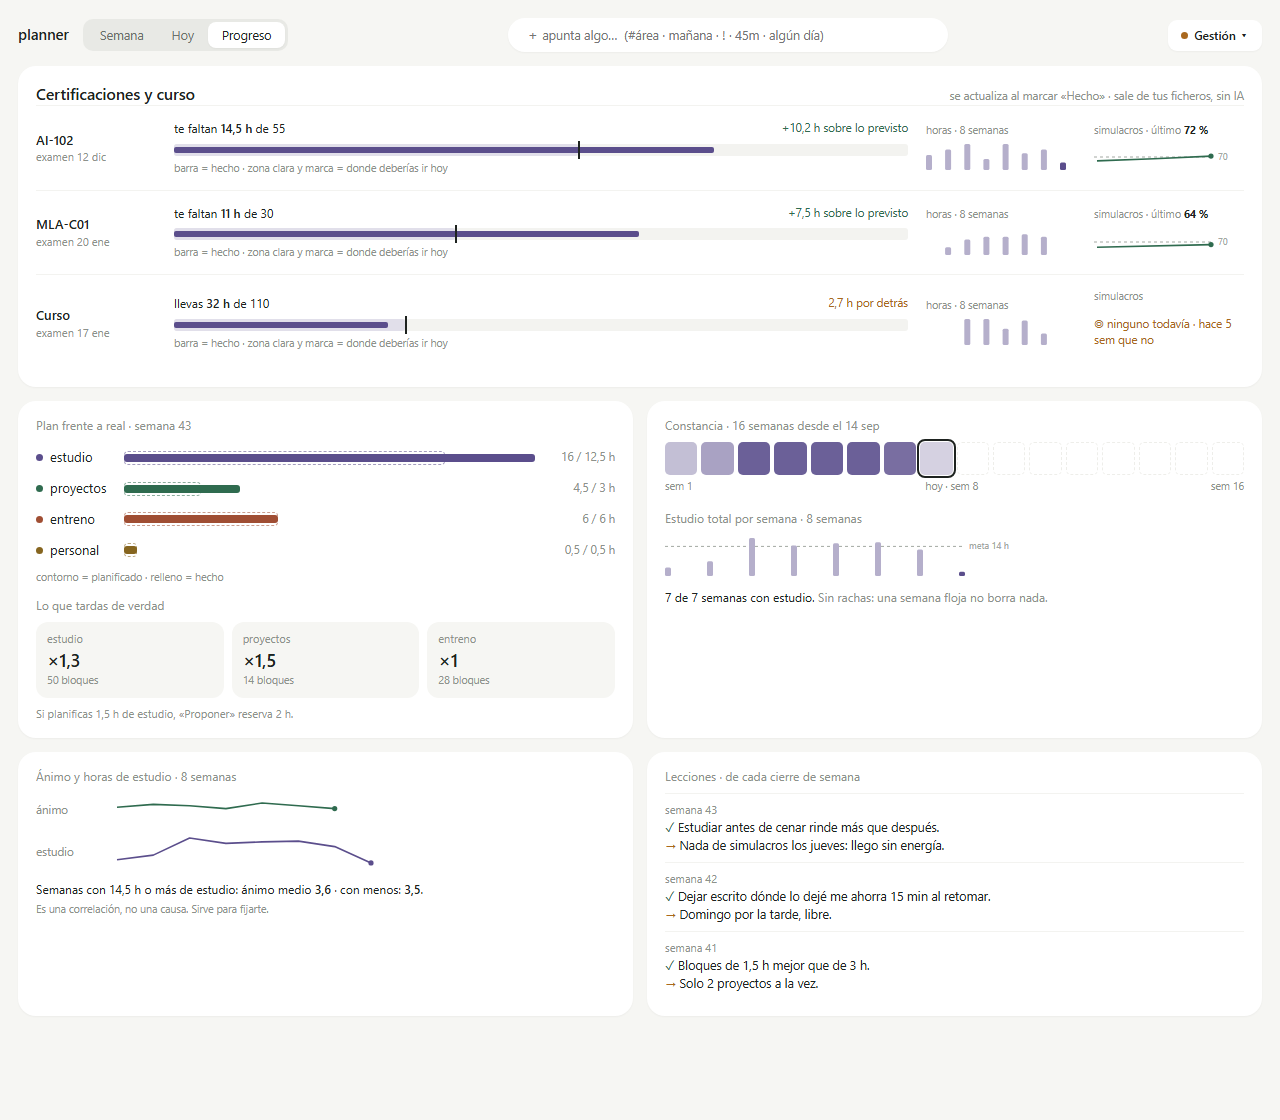
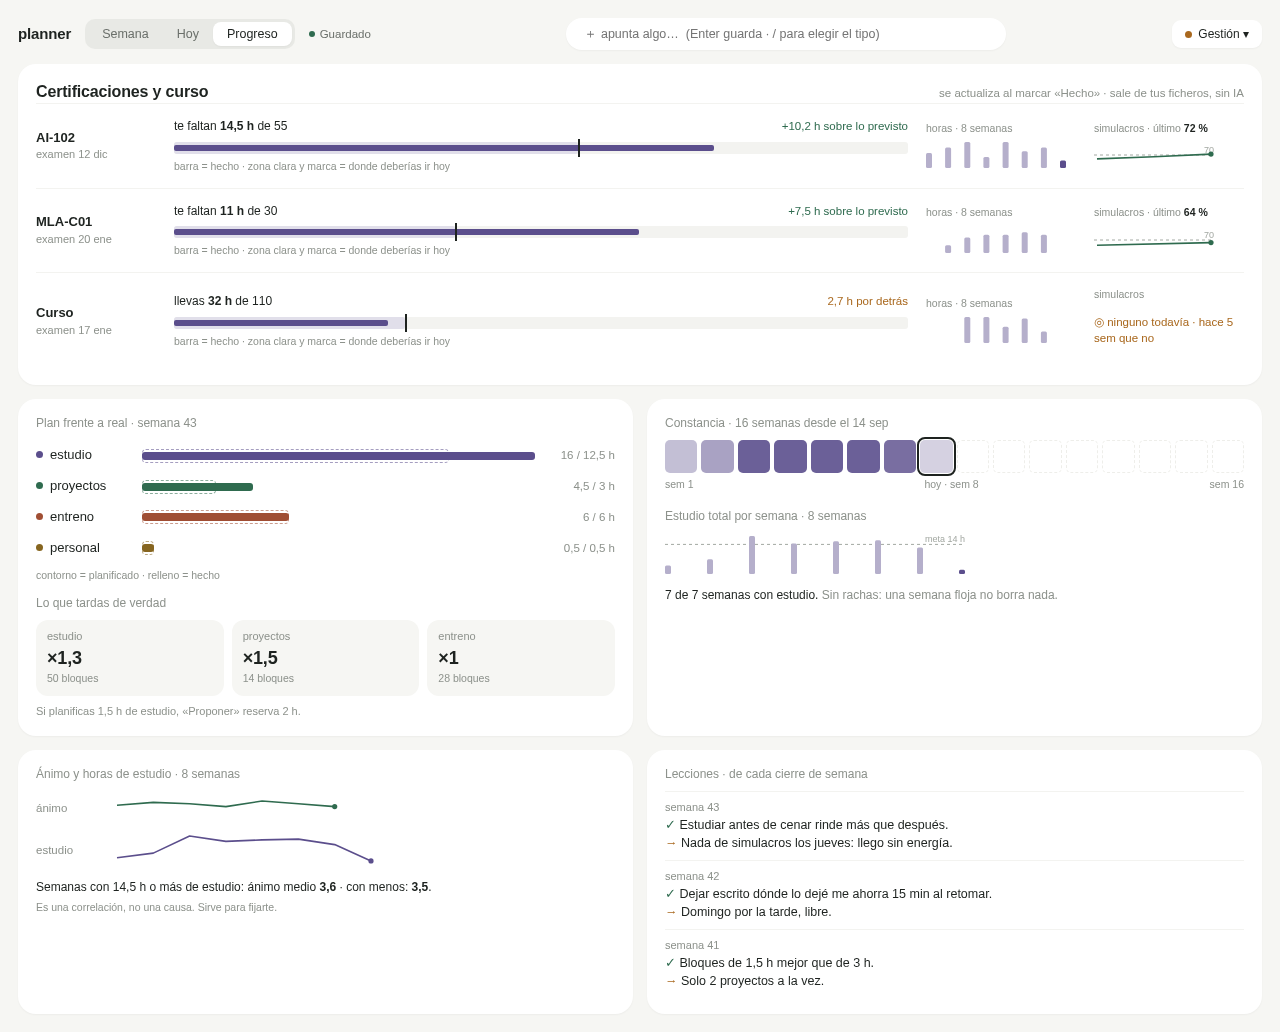
docs: todo al día con el indicador de guardado y capturas nuevas
- DISENO: indicador de guardado y enviarVarias en la parte web; casos
  límite 9 (la plantilla sí llega a las semanas ya creadas) y 11 (aviso
  de horas) corregidos.
- PLAN: casos límite 4, 9, 10 y 11 con el comportamiento actual.
- QA-CHECKLIST: comprobaciones manuales del indicador.
- QA-INFORME: indicador de guardado y revisión de la documentación.
- README: capturas regeneradas con la interfaz actual y pies al día.
- Guía: dibujo de la barra alineado.

diff --git a/docs/DISENO.md b/docs/DISENO.md
@@ -51,6 +51,8 @@ planner/
 ```
 
 - `web/estado.js` y `web/api.js` sacan de `app.js` el almacén y la red para que `app.js` solo orqueste.
+- **Indicador de guardado** (`#guardado`, junto al selector de vista): `estado.js` cuenta lo que está «en camino» (operaciones y deshaceres que el servidor aún no ha confirmado en disco) y expone `estadoGuardado()` → `guardando` · `guardado` · `fallo` (6 s tras un error que no es de conexión) · `caido`; `app.js` lo pinta (`acciones.alGuardar`), con «Guardando…» visible al menos 400 ms. Los intervalos usan `performance.now()` (monotónico; no depende del reloj del sistema ni del reloj fijo de los e2e). Con algo en camino, cerrar la pestaña pide confirmación (`beforeunload`). Solo lee estado del cliente: no escribe nada.
+- `enviarVarias(lista, {mensaje})` (en `estado.js`): varias operaciones de un mismo formulario con un único aviso y un «deshacer» que las deshace todas, de la última a la primera.
 - `web/vistas/editor-bloque.js` separa el popover del bloque (es la pieza más grande de la vista Semana).
 - `server/estado.js` compone el estado completo y las métricas; `api.js` se queda en rutas.
 - Los formatos que comparten gramática comparten módulo (`listas.js`, `tareas.js` con el archivo, `tipos.js` con la plantilla) en vez de un fichero por formato: menos código repetido y una sola forma de leer `- clave: valor`.
@@ -308,9 +310,9 @@ El usuario pidió avanzar sin paradas; estas son las preguntas que habría hecho
 | 6 | Semana cerrada por error: reabrir no cambia la siguiente | `cierre.test.js` |
 | 7 | Semanas futuras se crean desde plantilla al abrirlas | `ops.test.js`; UI Gestión → Semanas → planificar |
 | 8 | Semanas pasadas sin fichero: vacías y solo lectura | `semana-core.test.js` (estado «sin datos»), `ops.test.js` (rechazo) |
-| 9 | Cambiar la plantilla no toca semanas existentes | `ops.test.js` (solo toca plantilla.md) |
+| 9 | Cambiar la plantilla: con la casilla (por defecto) llega a la semana actual desde hoy y a las futuras ya creadas, solo donde el bloque sigue tal cual; nunca a semanas pasadas o cerradas; sin la casilla, solo `plantilla.md` | `ops.test.js` (`plantilla.crear/editar/eliminar` con y sin `aplicar`), e2e `gestion.spec` (Plantilla) |
 | 10 | Borrar un tipo en uso: sin `pasarA`, bloqueado con explicación; la UI pregunta a qué tipo pasar sus usos | `ops.test.js`, `server.test.js` (422 «en uso»), `flexible.test.js` (`pasarA`), e2e `flexible.spec` |
-| 11 | Bloque que cruza la hora visible máxima: se recorta al pintar | `capacidad.js` (`minutosVisibles`), `semana.js` (recorte al pintar, el fichero no cambia) |
+| 11 | Bloque que cruza la hora visible máxima: se recorta al pintar | `capacidad.js` (`minutosVisibles`), `semana.js` (recorte al pintar, el fichero no cambia); el editor avisa si cae fuera de las horas visibles y ofrece ampliarlas (e2e `flexible.spec`) |
 | 12 | Semana ISO 53 y cambio de año | `fechas.test.js`, `proponer.test.js` (escenario 12), `semana-core.test.js` |
 | 13 | Puerto ocupado → siguiente libre; segunda instancia → abre la primera | `cli.test.js` |
 | 14 | Carpeta inexistente o vacía → onboarding | `cli.test.js` (`datos.vacia`), `ops.test.js` (`datos.inicializar`); probado en navegador |

diff --git a/docs/QA-INFORME.md b/docs/QA-INFORME.md
@@ -190,3 +190,15 @@ Revisión «quirúrgica» de lo que obligaba a editar ficheros a mano o a borrar
 4. El diario se edita desde el cajón solo para los últimos 7 días (la operación acepta cualquier fecha hasta hoy).
 5. El plan de diseño dejaba los atajos de teclado fuera; los he añadido porque estaban en la lista que aprobaste. Son de una tecla y no actúan mientras escribes.
 
+### Indicador de guardado (2 nov. 2026)
+Petición: saber de un vistazo que lo de la web está ya en los ficheros Markdown.
+- Junto a Semana · Hoy · Progreso: **● Guardado**, **○ Guardando…**, **No se guardó el último cambio** (6 s tras un error, por ejemplo un 409 por edición externa) y **Sin conexión · no se guarda** (servidor parado). El `title` dice la carpeta y la hora del último cambio. En pantallas estrechas, solo el punto (sin scroll horizontal a 1024 px al 200 %).
+- «Guardado» solo aparece cuando el servidor ha confirmado **todas** las operaciones y deshaceres en camino: no al pulsar, sino cuando ya está en disco. Cerrar la pestaña con algo en camino pide confirmación.
+- No toca datos: solo lee el estado del cliente.
+- Encontrado al probarlo: con el reloj fijo de los e2e (`setFixedTime`), el mínimo de 400 ms medido con `Date.now()` no terminaba nunca y se quedaba en «Guardando…». Los intervalos se miden ahora con `performance.now()`, que además no se ve afectado si cambia la hora del sistema.
+- Pruebas: e2e en `sincronizacion.spec` (Guardando… mientras el servidor retiene la petición y el fichero aún no tiene el cambio; Guardado tras varias seguidas y tras deshacer; «No se guardó» tras un 409; «Sin conexión» con el servidor parado), 3 de 3 repeticiones; suite completa en verde (195 unitarias, 65 e2e, 171 visuales). Capturas del README regeneradas.
+
+### Revisión de la documentación (2 nov. 2026)
+- `DISENO.md`: el caso límite 9 decía que cambiar la plantilla no toca las semanas existentes; ya no es así desde «plantilla editable» (con la casilla llega a la actual y futuras donde el bloque sigue tal cual). Corregido, junto con el 11 (aviso de horas) y la parte web (indicador y `enviarVarias`).
+- README: capturas regeneradas con la interfaz actual y sus pies al día.
+

diff --git a/docs/PLAN.md b/docs/PLAN.md
@@ -375,14 +375,14 @@ Entrada: semana, estudio, proyectos, Las 3, ajustes, factores. Salida: lista de 
 1. Bloques solapados: se permiten; carriles + ⚠; Proponer nunca solapa.
 2. Más de `tareas_hoy` tareas: lo nuevo va a Más adelante con aviso; «↑ hoy» o «hoy» en la captura lo ponen igualmente, avisando.
 3. Tareas vencidas → grupo Vencidas arriba en rojo.
-4. Edición a mano mientras la web está abierta: sondeo recarga; si había una op en vuelo → `409` → recarga + toast.
+4. Edición a mano mientras la web está abierta: sondeo recarga; si había una op en vuelo → `409` → recarga + toast, y el indicador dice «No se guardó el último cambio».
 5. Líneas mal escritas: se conservan y se marcan; ningún fichero se reescribe perdiendo texto.
 6. Semana cerrada por error: Reabrir; la semana siguiente no cambia.
 7. Navegar a semanas futuras: se crean desde plantilla solo al abrirlas; se pueden planificar.
 8. Semanas pasadas sin fichero: vacías y solo lectura.
-9. Cambiar la plantilla: no toca semanas existentes.
-10. Borrar un tipo en uso: bloqueado con explicación.
-11. Bloque que cruza la hora visible máxima: se recorta al pintar, no al guardar.
+9. Cambiar la plantilla: con la casilla (por defecto) llega a la semana actual desde hoy y a las futuras ya creadas, solo donde el bloque sigue tal cual; nunca a semanas pasadas o cerradas. Sin la casilla, solo la plantilla. *(Cambiado tras el uso: antes no tocaba ninguna semana existente.)*
+10. Borrar un tipo en uso: se pregunta a qué tipo pasar sus bloques, plantilla y tareas (sin elegir, no se borra). *(Cambiado tras el uso: antes, bloqueado.)*
+11. Bloque que cruza la hora visible máxima: se recorta al pintar, no al guardar; el editor avisa y ofrece ampliar las horas visibles.
 12. Semana ISO 53 y cambio de año (2026-W53 → 2027-W01).
 13. Puerto ocupado → siguiente libre. Dos instancias → la segunda abre la pestaña de la primera.
 14. Carpeta de datos inexistente o vacía → onboarding.

diff --git a/docs/QA-CHECKLIST.md b/docs/QA-CHECKLIST.md
@@ -47,11 +47,17 @@ Marca cada punto; si alguno falla, apunta qué viste (y la hora) y mira la termi
 30. [ ] Diario (cajón): pulsa un día de esta semana, cambia el ánimo y guarda.
 31. [ ] Teclado: `?` enseña los atajos; `←` `→` cambian de semana; `n` va a «apunta algo»; escribiendo en un campo no hacen nada.
 
+## Guardado
+
+32. [ ] Junto a Semana · Hoy · Progreso pone **● Guardado**. Al apuntar una tarea pasa un momento a **○ Guardando…** y vuelve a **● Guardado**; entonces la tarea ya está en `tareas.md`.
+33. [ ] Pasa el ratón por «Guardado»: dice tu carpeta de datos y la hora del último cambio.
+34. [ ] Para el planner (`planner stop`) con la pestaña abierta: en ≤ 5 s pone **Sin conexión · no se guarda** en rojo; al arrancarlo vuelve a **● Guardado**.
+
 ## Copias y cierre
 
-32. [ ] Tras el primer cambio del día, existe `D:\planner\.copias\AAAA-MM-DD\` con tus ficheros (aunque tarde un poco en terminar).
-33. [ ] Ctrl + C en la terminal (o `planner stop`) mientras guardas algo: al volver a arrancar, el cambio está entero o no está; nunca a medias.
-34. [ ] Con el planner parado y la pestaña abierta, sale la banda «Servidor parado · solo lectura»; al arrancarlo de nuevo desaparece sola en ≤ 5 s.
+35. [ ] Tras el primer cambio del día, existe `D:\planner\.copias\AAAA-MM-DD\` con tus ficheros (aunque tarde un poco en terminar).
+36. [ ] Ctrl + C en la terminal (o `planner stop`) mientras guardas algo: al volver a arrancar, el cambio está entero o no está; nunca a medias.
+37. [ ] Con el planner parado y la pestaña abierta, sale la banda «Servidor parado · solo lectura»; al arrancarlo de nuevo desaparece sola en ≤ 5 s.
 
 ## Si algo falla
 

diff --git a/README.md b/README.md
@@ -11,9 +11,9 @@ Con los datos inventados de [`ejemplo/`](ejemplo/) (`planner --ejemplo --hoy 202
 | | |
 |---|---|
 | ![Vista Semana](docs/capturas/semana.png) | ![Editor de bloque](docs/capturas/editor.png) |
-| **Semana**: bloques por horas, carriles, ocupación del día, Las 3 y ★ | **Editor**: tipo, subtipo de estudio, primer paso, «Hecho ✓» y «A medias» |
+| **Semana**: bloques por horas, carriles, ocupación del día, Las 3 con su plan B (si→), ★ y «● Guardado» | **Editor**: tipo (o uno nuevo), subtipo de estudio, día u otra fecha, horas libres, primer paso, duplicar, «Hecho ✓» y «A medias» |
 | ![Proponer semana](docs/capturas/proponer.png) | ![Vista Hoy](docs/capturas/hoy.png) |
-| **Proponer semana**: sugerencias discontinuas, sin solapes, con deshacer | **Hoy**: horario, tareas, más adelante por grupos y cierre del día |
+| **Proponer semana**: sugerencias discontinuas, sin solapes, con deshacer y «Quitar sugerencias» | **Hoy**: horario, Las 3, ideas, tareas, más adelante por grupos y cierre del día |
 | ![Progreso](docs/capturas/progreso.png) | ![Cerrar semana](docs/capturas/cerrar-semana.png) |
 | **Progreso**: certificaciones, plan frente a real, constancia, ánimo y lecciones | **Cerrar semana**: pendientes con una decisión cada uno |
 | ![Selector de tema](docs/capturas/temas.png) | ![Tema nórdico oscuro](docs/capturas/oscuro.png) |

diff --git a/guia.md b/guia.md
@@ -4,7 +4,7 @@ La pantalla tiene cinco partes. Esto es lo que puedes rellenar en cada una.
 
 ```
 ┌─────────────────────────────────────────────────────────────┐
-│ planner [Semana][Hoy][Progreso] ● Guardado ＋ apunta Gestión▾│  ← barra de arriba
+│ planner [Semana][Hoy][Progreso] ● Guardado + apunta Gestión▾│  ← barra de arriba
 ├───────────────────────────────────────────┬─────────────────┤
 │                                           │  Hoy·Metas·Diario│
 │   la vista que elijas                     │  (el cajón)      │
